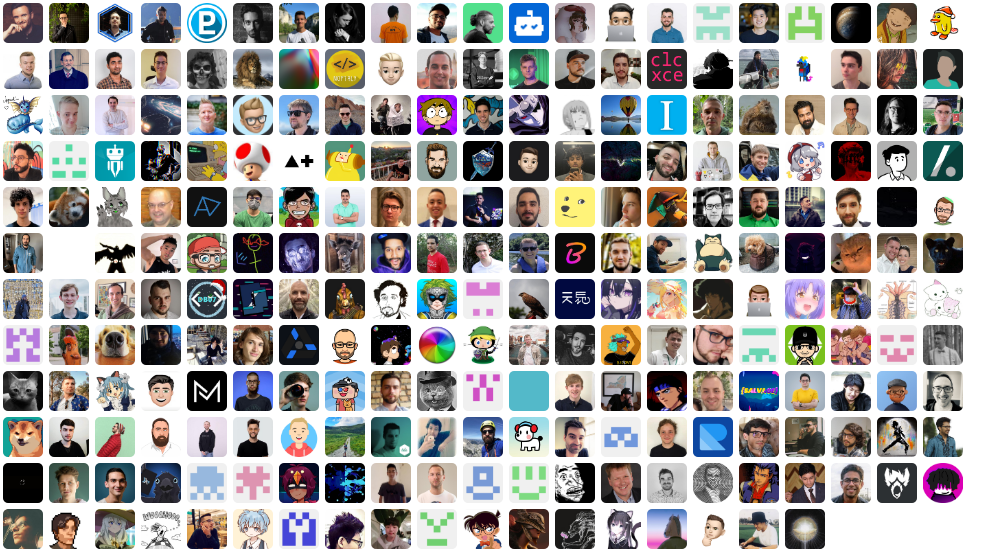
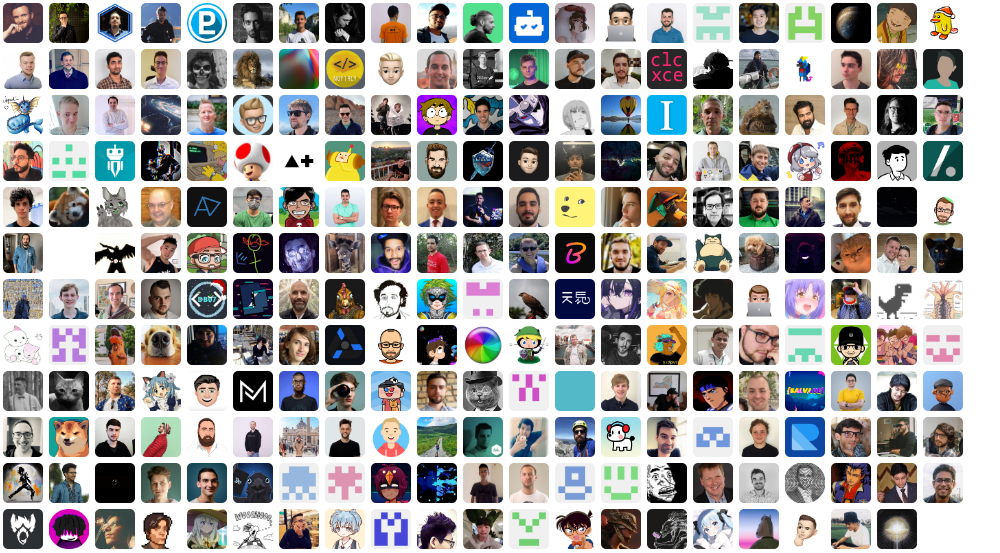
Release 4.23.1

Changed region(s): [[0.0, 0.4919, 0.961, 1.0]]

diff --git a/CHANGELOG.md b/CHANGELOG.md
@@ -3,6 +3,17 @@
  All notable changes to this project will be documented in this file. Dates are displayed in UTC.
 
  
+#### [v4.23.1](https://github.com/PKief/vscode-material-icon-theme/compare/v4.23.0...v4.23.1) 
+
+> December 23, 2022 
+
+- Add support for vitest config files [`#1572`](https://github.com/PKief/vscode-material-icon-theme/pull/1572)
+- Add icons for vscode files [`#1803`](https://github.com/PKief/vscode-material-icon-theme/pull/1803)
+- Add manager / moderator folder icon [`#1802`](https://github.com/PKief/vscode-material-icon-theme/pull/1802)
+- Update release workflow [`68bc32f`](https://github.com/PKief/vscode-material-icon-theme/commit/68bc32f)
+- Update badges in Readme [`#1796`](https://github.com/PKief/vscode-material-icon-theme/pull/1796)
+- add filename .env.uat into tune icon [`#1801`](https://github.com/PKief/vscode-material-icon-theme/pull/1801)
+ 
 #### [v4.23.0](https://github.com/PKief/vscode-material-icon-theme/compare/v4.22.0...v4.23.0) 
 
 > December 15, 2022 
